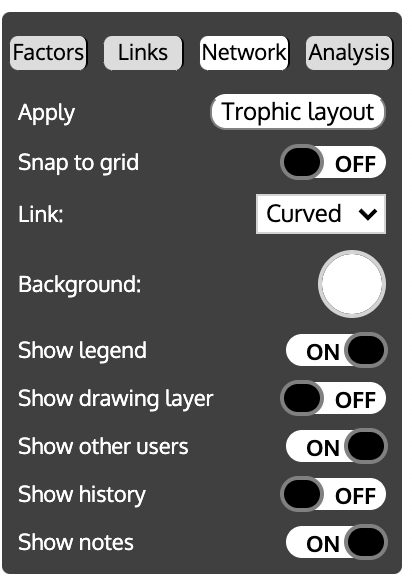
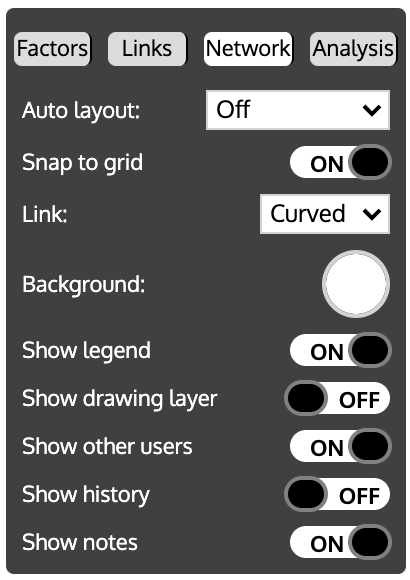
Auto layout: set spring length to average edge length and fixed undo

Changed region(s): [[0.0, 0.0, 0.9951, 0.9931]]

diff --git a/html/help.html b/html/help.html
@@ -111,13 +111,13 @@
 <li>and so on.</li>
 </ul>
 <h3 id="systems">Systems</h3>
-<p>The software is aimed at people who are interested in understanding whole systems. <a href="https://en.wikipedia.org/wiki/System" target="_blank">Wikipedia</a> defines a system as a group of interacting or interrelated entities that form a unified whole.</p>
+<p>The software is aimed at people who are interested in understanding whole systems. <a href="https://en.wikipedia.org/wiki/System" target="_blank" rel="noreferrer">Wikipedia</a> defines a system as a group of interacting or interrelated entities that form a unified whole.</p>
 <h3 id="participatory-system-mapping">Participatory system mapping</h3>
 <p>The app is designed to enable groups of people, each using their own computer (or tablet) to collaborate in the drawing of a map. They may be sitting around a table, discussing the map as it is created face to face, or working remotely, using video conferencing or the chat feature that is built into the app. Everyone can participate because every edit (creating nodes and links, arranging them and so on) is broadcast to all the other participants as the changes are made (just as Google Docs does for text, for example).</p>
 <p>When you start the app in your browser, a ‘room’ is created for you in which to draw your network. You can add other users to this room to share the work. Only those with access to the room can see what is being created.</p>
 <h2 id="examples">Examples</h2>
 <p>Here are a few examples of what you can do with the app:</p>
-<p>The first is a theory of change adapted from an <a href="https://www.thinknpc.org/resource-hub/ten-steps/" target="_blank">NPC report</a>.</p>
+<p>The first is a theory of change adapted from an <a href="https://www.thinknpc.org/resource-hub/ten-steps/" target="_blank" rel="noreferrer">NPC report</a>.</p>
 <figure>
 <img src="/doc/images/NPCexample.png" alt="NCP Example" /><figcaption aria-hidden="true">NCP Example</figcaption>
 </figure>
@@ -131,9 +131,9 @@
 </figure>
 <h2 id="installation">Installation</h2>
 <p>No installation on your computer is needed. The software is a web app, which means that it can be accessed using a web browser by pasting this link into the address bar:</p>
-<p><a href="https://prsm.uk/prsm.html" target="_blank">https://prsm.uk/prsm.html</a></p>
+<p><a href="https://prsm.uk/prsm.html" target="_blank" rel="noreferrer">https://prsm.uk/prsm.html</a></p>
 <p>You need a modern web browser such as Chrome, Firefox, Microsoft Edge or Safari. It will not work with Internet Explorer.</p>
-<p>The software is free and available under an <a href="https://choosealicense.com/licenses/mit/" target="_blank">MIT</a> license.</p>
+<p>The software is free and available under an <a href="https://choosealicense.com/licenses/mit/" target="_blank" rel="noreferrer">MIT</a> license.</p>
 <h2 id="basic-use">Basic use</h2>
 <p>When the app is started for the first time in your browser, there is an option to type in your name and then to follow a brief tour that shows you the main items on the web page.</p>
 <figure>
@@ -150,7 +150,7 @@
 <ul>
 <li><strong>Undo</strong>. Reverses the last action (e.g. if you have just created a new factor, it will be removed). See also using rollback from the History window, described in the section about the <a href="#network-tab">Network Tab</a>.</li>
 <li><strong>Redo</strong>. Redo the last action (e.g. if you have just undone the creation of a factor, this will return the factor to the network).</li>
-<li><strong>Bin</strong>. First, select a factor or a link by clicking on it. Note that the selected factor or link gains a shadow and is listed in the status bar at the bottom of the window. Then click on the Bin button - the factor or link is deleted. The Undo button will restore it if you deleted it by mistake.</li>
+<li><strong>Bin</strong>. First, select a factor or a link by clicking on it. Note that the selected factor or link gains a shadow and is listed in the status bar at the bottom of the window. Then click on the Bin button (or press the backspace or delete keys) - the factor or link is deleted. The Undo button will restore it if you deleted it by mistake.</li>
 <li><strong>Share</strong>. Shows a dialog box with a web link that you can copy and send to someone else. If they then access that link, they will see your network and can edit and add to it. See <a href="#sharing">Sharing</a> below.</li>
 <li><strong>Open file</strong>. Read in a file containing a network from your computer drive. See <a href="#file-formats">below</a> for supported file formats. The content of the file replaces the network in the browser.</li>
 <li><strong>Save file</strong>. Save the network in a file on your computer. The file is saved in the app’s own format, or if you click on the small triangle next to the button, you can choose to save an image of the map as a high resolution image (a .PNG file), or the map data in GML (Graph Markup Language) or CSV (Comma Separated Values) formats.</li>
@@ -199,7 +199,7 @@
 <h3 id="copy-and-paste">Copy and paste</h3>
 <p>You can copy selected factors to the clipboard and then paste them into either the same map (to duplicate them) or into another map in another browser window or tab.</p>
 <p>To copy, first select the factors that you want copied (a long press on the factors). Then hold down the Command ⌘ or CTRL ⌃key and type C. If you copy more than one factor, all the links that go between the selected factors get copied too.</p>
-<p>If you want to copy these factors and links into a new map, open a new tab in your browser, go to <a href="https://prsm.uk/prsm.html" target="_blank">https://prsm.uk/prsm.html</a>, click on the map and type ⌘V or ⌃V. Or to duplicate the factors in the same map, just type ⌘V or ⌃V.</p>
+<p>If you want to copy these factors and links into a new map, open a new tab in your browser, go to <a href="https://prsm.uk/prsm.html" target="_blank" rel="noreferrer">https://prsm.uk/prsm.html</a>, click on the map and type ⌘V or ⌃V. Or to duplicate the factors in the same map, just type ⌘V or ⌃V.</p>
 <h3 id="formatting-factors-and-links">Formatting factors and links</h3>
 <p>Double clicking on a factor or a link will bring up a small dialog that enables you to change the design of the factor or link - its colour, shape or the label.</p>
 <!-- ![Editing a node](/doc/images/Editingnode.png) -->
@@ -216,7 +216,7 @@
 <img src="/doc/images/ChatWindowButton.gif" alt="Chat Window Button" /><figcaption aria-hidden="true">Chat Window Button</figcaption>
 </figure>
 <h3 id="file-formats">File formats</h3>
-<p>The app can read files in its native format (files with the suffix ‘.prsm’), or in <a href="http://graphml.graphdrawing.org/" target="_blank">GRAPHML</a> (.graphml), <a href="https://en.wikipedia.org/wiki/Graph_Modelling_Language" target="_blank">GML</a> (.gml) or <a href="https://en.wikipedia.org/wiki/Comma-separated_values" target="_blank">Comma Separated Values (CSV)</a> (.csv) formats. A CSV file must contain at least two columns of values. Each row represents a link. In the first column is the label of the factor from which the link points, and in the second column is the label of the factor the link is pointing to. This very simple format is designed to allow straightforward imports from other software. Optionally, the third and fourth columns may contain an integer between 1 and 9 - if they do, the factor is styled with that style (styles are numbered from top left to bottom right as shown on the <a href="#factors-tab">Factors tab</a>). The fifth column may contain the style number for the link.</p>
+<p>The app can read files in its native format (files with the suffix ‘.prsm’), or in <a href="http://graphml.graphdrawing.org/" target="_blank" rel="noreferrer">GRAPHML</a> (.graphml), <a href="https://en.wikipedia.org/wiki/Graph_Modelling_Language" target="_blank" rel="noreferrer">GML</a> (.gml) or <a href="https://en.wikipedia.org/wiki/Comma-separated_values" target="_blank" rel="noreferrer">Comma Separated Values (CSV)</a> (.csv) formats. A CSV file must contain at least two columns of values. Each row represents a link. In the first column is the label of the factor from which the link points, and in the second column is the label of the factor the link is pointing to. This very simple format is designed to allow straightforward imports from other software. Optionally, the third and fourth columns may contain an integer between 1 and 9 - if they do, the factor is styled with that style (styles are numbered from top left to bottom right as shown on the <a href="#factors-tab">Factors tab</a>). The fifth column may contain the style number for the link.</p>
 <p>The app can create output files in the app’s own native format, as a GML file or as a CSV file. You can also save an image of the map as a Portable Network Graphics (.png) file. The image shows the same view of the map as you see on the screen (so, for example, it will not show factors that have been moved out of the app window).</p>
 <h3 id="privacy-and-security">Privacy and security</h3>
 <p>The only way to join the room and see the network is by using the randomly generated room name, and the chances of finding that name by trial and error is very, very small. The network data are stored on a central server in encoded form. The server is located in Europe.</p>
@@ -243,13 +243,20 @@
 <!-- ![LinksPanel](/doc/images/LinksPanel.png) -->
 <p><img src="/doc/images/LinksPanel.png" width="250"></p>
 <h3 id="network-tab">Network tab</h3>
-<p>The Network tab enables you to change many aspects of the network visualisation andwhat is shown in the window.</p>
-<p>It is sometimes useful to get PSRM to layout Factors using an automatic procedure and then adjust their positions manually to achieve the desired placement. PRSM has the <em>trophic</em> algorithm built in. The trophic layout helps to reveal <a href="https://royalsocietypublishing.org/doi/10.1098/rsos.201138" target="_blank">the causal structure of the map</a>. With the trophic layout, the factors are arranged along the horizontal axis according to their positions (their trophic levels) in the overall causal flow within the system, making it easier to identify upstream and downstream factors; the linked chains of influence that connect them; and where policies act on the system within this overall causal structure (which may be upstream or downstream).</p>
+<p>The Network tab enables you to change many aspects of the network visualisation and what is shown in the window.</p>
+<p>It is sometimes useful to get PSRM to layout Factors using an automatic procedure and then adjust their positions manually to achieve the desired placement. PRSM provides several layout algorithms:</p>
+<ul>
+<li>The <em>trophic</em> algorithm helps to reveal <a href="https://royalsocietypublishing.org/doi/10.1098/rsos.201138" target="_blank" rel="noreferrer">the causal structure of the map</a>. With the trophic layout, the factors are arranged along the horizontal axis according to their positions (their trophic levels) in the overall causal flow within the system, making it easier to identify upstream and downstream factors; the linked chains of influence that connect them; and where factors act on the system within this overall causal structure (which may be upstream or downstream). It will re-arrange the factors and links to create a layout such that all the links point from left to right and are arranged according to <a href="https://en.wikipedia.org/wiki/Trophic_level" target="_blank" rel="noreferrer">trophic level</a>.</li>
+<li><em>Barnes Hut</em> This is a ‘gravity’ algorithm. Each Factor is modelled as though it has a mass that repulses all other Factors with an inverse square, while the links are modelled as springs that pull the Factors together. The algorithm is iterative, i.e. it tries repeatedly to find the best arrangement of factors that balance the repulsive forces between the Factors and the attractive forces from the springs.</li>
+<li><em>Force Atlas 2</em> This is a variation of the Barnes Hut algorithm in which the repulsion between the Factors is linear rather than qudratric.</li>
+<li><em>Repulsion</em> Another variation of Barnes Hut.</li>
+</ul>
+<p>There is no best layout algorithm that works for all networks; you need to see which one looks best for your map. If you don’t like the effect of an algorithm, you can choose another one, or use the Undo button on the top bar to revert the map to its original layout.</p>
 <p>On the Network tab, there are controls for:</p>
 <!-- ![NetworkPanel](/doc/images/NetworkPanel.png) -->
 <p><img src="/doc/images/NetworkPanel.png" width="250"></p>
 <ul>
-<li><strong>Trophic Layout</strong> Clicking the Trophic Layout button will re-arrange the factors and links to create a layout such that all the links point from left to right and are arranged accoriding to <a href="https://en.wikipedia.org/wiki/Trophic_level" target="_blank">trophic level</a>. You can then adjust the map manually to a neat and pleasing layout. If you don’t like the result, the Undo button on the top bar will revert the map to its original layout.</li>
+<li><strong>Auto Layout</strong> Choose which layout algorithm to apply. The algorithm will then adjust the positions of the Factors and links and, once complete, the selection will revert to ‘Off’.</li>
 <li><strong>Snap to grid</strong> When ON, factors shift to be at the intersection of invisible grid lines. This makes it much easier to line up factors neatly.</li>
 <li><strong>Link</strong> Links can either be drawn using a curved line or a straight line. This control swaps between the two.</li>
 <li><strong>Background</strong> This changes the colour of the background of the network pane. Click on the colour well to display possible colours. The default is white, but a black background can also be effective.</li>
@@ -272,7 +279,7 @@
 <p>Here is an example. The first is the original network. <img src="/doc/images/ShowAll.png" width="250"> The second is the same network with Show all paths between Factors 1 and 7. <img src="/doc/images/ShowAllPaths.png" width="250"> The third is the same network with Show the shortest path between Factors 1 and 7. <img src="/doc/images/ShowShortestPath.png" width="250"></p>
 <p>The above three options can be combined. For example, the shortest path between two Factors option may display two paths: one with a couple of links and another feedback path going in the reverse direction that winds around the map and includes many links. Because it consists of many links, the latter path may not be of much interest. Choosing both Shortest path and Show Factors only 2 links away will display just the direct path.</p>
 <ul>
-<li><p><strong>Size Factors to</strong> This is used to change the size of the Factors to be proportional to one of a set of metrics: the number of inputs (the ‘in-degree’), the number of outputs (the ‘out-degree’), the leverage (ratio of inputs to outputs), or the <a href="https://en.wikipedia.org/wiki/Betweenness_centrality" target="_blank">betweenness centrality</a>. Note that the Factors are always drawn large enough to accommodate their labels, and so the size may not be exactly proportional to the metric. The values of these metrics for a Factor are shown in its Notes panel.</p></li>
+<li><p><strong>Size Factors to</strong> This is used to change the size of the Factors to be proportional to one of a set of metrics: the number of inputs (the ‘in-degree’), the number of outputs (the ‘out-degree’), the leverage (ratio of inputs to outputs), or the <a href="https://en.wikipedia.org/wiki/Betweenness_centrality" target="_blank" rel="noreferrer">betweenness centrality</a>. Note that the Factors are always drawn large enough to accommodate their labels, and so the size may not be exactly proportional to the metric. The values of these metrics for a Factor are shown in its Notes panel.</p></li>
 <li><p><strong>Cluster</strong> With large maps, it is sometimes useful to aggregate Factors into groups, thus displaying the map at a higher level of abstraction. For example, all the Factors relating to the effect of climate change might be replaced on the map by one ‘Climate Change Cluster’ Factor, and similarly, all the Factors concerned with transport replaced by one Transport Factor. Links that used to go to Factors outside the cluster are replaced by links that go to the new Cluster Factor (and likewise for links that go from the clustered Factors to Factors outside the cluster).</p>
 <p>For example, here is a simple map before clustering:</p>
 <p><img src="/doc/images/BeforeClustering.png" width="600"></p>
@@ -302,7 +309,7 @@
 <li><strong>Undo</strong> This tool will undo the effect of the last drawing (e.g. if you have just placed an image on the background, it will remove the image, or if you have drawn a line with the pencil, it will undo that line). Each click of the Undo button removes a previous drawing.</li>
 </ul>
 <h2 id="analysis">Analysis</h2>
-<p>Once you have a map, you may want to examine it for themes and patterns. This is easiest if you examine portions of the map, or ‘sub-maps’, one at a time. As Barbrook-Johnson and Penn explain (<a href="https://doi.org/10.1177/1356389020976153" target="_blank">Barbrook-Johnson, P., &amp; Penn, A. (2021). Participatory systems mapping for complex energy policy evaluation. Evaluation, 27(1), 57–79.</a>), network analysis can be combined with subjective information to answer a range of questions, as indicated in the table below.</p>
+<p>Once you have a map, you may want to examine it for themes and patterns. This is easiest if you examine portions of the map, or ‘sub-maps’, one at a time. As Barbrook-Johnson and Penn explain (<a href="https://doi.org/10.1177/1356389020976153" target="_blank" rel="noreferrer">Barbrook-Johnson, P., &amp; Penn, A. (2021). Participatory systems mapping for complex energy policy evaluation. Evaluation, 27(1), 57–79.</a>), network analysis can be combined with subjective information to answer a range of questions, as indicated in the table below.</p>
 <table class="analysis">
 <thead>
 <tr class="header">
@@ -463,22 +470,22 @@
 </ol>
 <h2 id="source-code">Source Code</h2>
 <p><em>(The following is intended for developers who want to extend PRSM)</em></p>
-<p>The program code is available on <a href="https://github.com/micrology/prsm" target="_blank">GitHub</a>.</p>
+<p>The program code is available on <a href="https://github.com/micrology/prsm" target="_blank" rel="noreferrer">GitHub</a>.</p>
 <p>The javascript (ES6) code in sub-directory <code>js</code> is divided into several modules: those that handle the main network pane (<code>prsm.js</code>), the background painting functions (<code>paint.js</code>), editing the styles (<code>styles.js</code>) (the default styles are in <code>samples.js</code>), the initial tour (<code>tutorial.js</code>), does tophic layout (<code>trophic.js</code>), does clustering (<code>cluster.js</code>), calulates the betweenness centrality (<code>betweenness.js</code>) and provides shared utility functions (<code>utils.js</code>). The HTML file that displays in the browser is in the <code>html</code> directory.</p>
-<p>PRSM uses two important packages: <a href="https://github.com/yjs/yjs" target="_blank"><code>yjs</code></a> and <a href="https://visjs.org/" target="_blank"><code>vis-network</code></a>. The former handles the sharing between participants’ browsers and the latter draws the network. A few other packages are used for dealing with touch input (<a href="https://hammerjs.github.io/" target="_blank"><code>Hammer</code></a>), drawing emojis, and parsing XML file input.</p>
-<p>These components are assembled using <a href="https://parceljs.org/" target="_blank"><code>parcel</code></a> and the bundled file is placed in the <code>dist</code> directory. So that users have an easy URL to access (i.e. not needing to include <code>dist</code> in the link), there is an <code>.htaccess</code> file that rewrites URLs from what the user puts into their browser to the correct location.</p>
-<p>To install the code, use <code>git</code> to clone the <a href="https://github.com/micrology/prsm" target="_blank">repo</a> to your local disk and change to the cloned directory. Then install the required packages with</p>
+<p>PRSM uses two important packages: <a href="https://github.com/yjs/yjs" target="_blank" rel="noreferrer"><code>yjs</code></a> and <a href="https://visjs.org/" target="_blank" rel="noreferrer"><code>vis-network</code></a>. The former handles the sharing between participants’ browsers and the latter draws the network. A few other packages are used for dealing with touch input (<a href="https://hammerjs.github.io/" target="_blank" rel="noreferrer"><code>Hammer</code></a>), drawing emojis, and parsing XML file input.</p>
+<p>These components are assembled using <a href="https://parceljs.org/" target="_blank" rel="noreferrer"><code>parcel</code></a> and the bundled file is placed in the <code>dist</code> directory. So that users have an easy URL to access (i.e. not needing to include <code>dist</code> in the link), there is an <code>.htaccess</code> file that rewrites URLs from what the user puts into their browser to the correct location.</p>
+<p>To install the code, use <code>git</code> to clone the <a href="https://github.com/micrology/prsm" target="_blank" rel="noreferrer">repo</a> to your local disk and change to the cloned directory. Then install the required packages with</p>
 <div class="sourceCode" id="cb1"><pre class="sourceCode bash"><code class="sourceCode bash"><span id="cb1-1"><a href="#cb1-1" aria-hidden="true" tabindex="-1"></a><span class="ex">npm</span> install</span></code></pre></div>
 <p>and build the distribution with</p>
 <div class="sourceCode" id="cb2"><pre class="sourceCode bash"><code class="sourceCode bash"><span id="cb2-1"><a href="#cb2-1" aria-hidden="true" tabindex="-1"></a><span class="ex">npm</span> run build</span></code></pre></div>
 <p>Documentation can be found in the <code>doc</code> directory.</p>
 <p>See <code>package.json</code> for other npm commands.</p>
 <h2 id="acknowledgements">Acknowledgements</h2>
-<p>With thanks to all who helped inspire, suggest features for, comment on, and test PRSM, including the members of <a href="https://www.cecan.ac.uk/" target="_blank">CECAN</a>, <a href="https://cress.soc.surrey.ac.uk/" target="_blank">CRESS</a>, <a href="https://www.risksol.co.uk/" target="_blank">Risk Solutions</a>, and Robin Gilbert.</p>
+<p>With thanks to all who helped inspire, suggest features for, comment on, and test PRSM, including the members of <a href="https://www.cecan.ac.uk/" target="_blank" rel="noreferrer">CECAN</a>, <a href="https://cress.soc.surrey.ac.uk/" target="_blank" rel="noreferrer">CRESS</a>, <a href="https://www.risksol.co.uk/" target="_blank" rel="noreferrer">Risk Solutions</a>, and Robin Gilbert.</p>
 <h2 id="bug-reports-and-feature-requests">Bug reports and feature requests</h2>
 <p>Please report problems, suggestions and praise to <a href="mailto:nigel@prsm.uk">nigel@prsm.uk</a></p>
 </div>
-<script src="https://unpkg.com/scrollnav@3.0.2/dist/scrollnav.min.umd.js"></script>
+<script src="/node_modules/scrollnav/dist/scrollnav.min.umd.js"></script>
 <script>
 window.addEventListener('load', () => {
     const content = document.querySelector('#contents');

diff --git a/js/prsm.js b/js/prsm.js
@@ -184,7 +184,7 @@ function addEventListeners() {
 	listen('analysisButton', 'click', () => {
 		openTab('analysisTab')
 	})
-	listen('layoutSelect', 'change', selectAutoLayout)
+	listen('layoutSelect', 'change', autoLayout)
 	listen('snaptogridswitch', 'click', snapToGridSwitch)
 	listen('curveSelect', 'change', selectCurve)
 	listen('drawing', 'click', toggleDrawingLayer)
@@ -422,31 +422,30 @@ function startY(newRoom) {
 	 */
 	function showChange(event, ymap) {
 		event.changes.keys.forEach((change, key) => {
-			if (change.action === 'add') {
-				console.log(
-					`Property "${key}" was added. 
+				if (change.action === 'add') {
+					console.log(
+						`Property "${key}" was added. 
 				Initial value: `,
-					ymap.get(key)
-				)
-			} else if (change.action === 'update') {
-				console.log(
-					`Property "${key}" was updated. 
+						ymap.get(key)
+					)
+				} else if (change.action === 'update') {
+					console.log(
+						`Property "${key}" was updated. 
 					New value: "`,
-					ymap.get(key),
-					`. 
-					Previous value: `,
-					change.oldValue,
-					`. 
-					Difference: `,
-					diff(change.oldValue, ymap.get(key))
-				)
-			} else if (change.action === 'delete') {
-				console.log(
-					`Property "${key}" was deleted. 
+						ymap.get(key),
+						`"
+					Previous value: "`,
+						change.oldValue,
+						`" 
+					Difference: "`,
+						typeof change.oldValue === 'object' && typeof ymap.get(key) === 'object' ? diff(change.oldValue, ymap.get(key)) : (change.oldValue + ' ' + ymap.get(key)), `"`)	
+				} else if (change.action === 'delete') {
+					console.log(
+						`Property "${key}" was deleted. 
 				Previous value: `,
-					change.oldValue
-				)
-			}
+						change.oldValue
+					)
+				}
 		})
 	}
 	ySamplesMap.observe((event) => {
@@ -497,9 +496,6 @@ function startY(newRoom) {
 					case 'mapTitle':
 					case 'maptitle':
 						setMapTitle(obj)
-						break
-					case 'autoLayout':
-						autoLayout(obj)
 						break
 					case 'snapToGrid':
 						doSnapToGrid(obj)
@@ -1267,19 +1263,6 @@ function fit(duration = 200) {
 	let newScale = network.getScale()
 	elem('zoom').value = newScale
 	network.storePositions()
-}
-
-/**
- * broadcast current node positions to all clients
- */
-function broadcast() {
-	/* there are situations where vis does not update node positions
-(and therefore does not call nodes.on) such as auto layout, 
-and therefore other clients don't get to see the changes.
-This function forces a broadcast of all nodes.  We only deal with
-nodes because the edges follow */
-	network.storePositions()
-	data.nodes.forEach((n) => yNodesMap.set(n.id, n))
 }
 
 /**
@@ -3396,29 +3379,52 @@ function positionNotes() {
 /**
  * Choose and apply a layout algorithm
  */
-
-function selectAutoLayout(e) {
+function autoLayout(e) {
 	let option = e.target.value
-	autoLayout(option)
-	yNetMap.set('autoLayout', option)
-}
-function autoLayout(option) {
-	elem('layoutSelect').value = option
+	let selectElement = elem('layoutSelect')
+	selectElement.value = option
 	network.storePositions() // record current positions so it can be undone
-	if (option == 'trophic') {
-		try {
-			data.nodes.update(trophic(data))
-		} catch (e) {
-			statusMsg(`Trophic layout: ${e.message}`, 'error')
+	doc.transact(() => {
+		if (option == 'trophic') {
+			try {
+				data.nodes.update(trophic(data))
+				elem('layoutSelect').value = 'off'
+			} catch (e) {
+				statusMsg(`Trophic layout: ${e.message}`, 'error')
+			}
+		} else if (option == 'off') {
+			network.setOptions({ physics: { enabled: false } })
+		} else {
+			let options = { physics: { solver: option, stabilization: true } }
+			options.physics[option] = {}
+			options.physics[option].springLength = avEdgeLength()
+			network.setOptions(options)
 		}
+	})
+	// cancel the iterative algorithms as soon as they have stabilized
+	network.on('stabilized', () => {
+		network.setOptions({ physics: { enabled: false } })
+		network.storePositions()
+		elem('layoutSelect').value = 'off'
+		data.nodes.update(data.nodes.get())
 	}
-	else if (option == 'off') {
-		network.setOptions({physics: {enabled: false}})
+	)
+	logHistory(`applied ${selectElement.options[selectElement.selectedIndex].innerHTML} layout`)
+
+	/**
+	 * find the average length of all edges, as a guide to the layout spring length
+	 * so that map is roughly as spaced out as before layout
+	 * @returns average length (in canvas units)
+	 */
+	function avEdgeLength() {
+		let edgeSum = 0
+		data.edges.forEach((e) => {
+			let from = data.nodes.get(e.from)
+			let to = data.nodes.get(e.to)
+			edgeSum += Math.sqrt((from.x - to.x) ** 2 + (from.y - to.y) ** 2)
+		})
+		return edgeSum / data.edges.length
 	}
-	else {
-		network.setOptions({physics: {solver: option, stabilization: true}})
-		}
-	broadcast()
 }
 
 function snapToGridSwitch(e) {

diff --git a/doc/help.md b/doc/help.md
@@ -223,16 +223,23 @@ The Links tab is very similar to the Factors tab, except that it relates to the 
 
 ### Network tab
 
-The Network tab enables you to change many aspects of the network visualisation andwhat is shown in the window.  
+The Network tab enables you to change many aspects of the network visualisation and what is shown in the window.  
 
-It is sometimes useful to get PSRM to layout Factors using an automatic procedure and then adjust their positions manually to achieve the desired placement.  PRSM has the *trophic* algorithm built in. The trophic layout  helps to reveal [the causal structure of the map](https://royalsocietypublishing.org/doi/10.1098/rsos.201138){target="_blank" rel="noreferrer"}. With the trophic layout, the factors are arranged along the horizontal axis according to their positions (their trophic levels) in the overall causal flow within the system, making it easier to identify upstream and downstream factors; the linked chains of influence that connect them; and where policies act on the system within this overall causal structure (which may be upstream or downstream).
+It is sometimes useful to get PSRM to layout Factors using an automatic procedure and then adjust their positions manually to achieve the desired placement.  PRSM provides several layout algorithms:
+
+* The *trophic* algorithm helps to reveal [the causal structure of the map](https://royalsocietypublishing.org/doi/10.1098/rsos.201138){target="_blank" rel="noreferrer"}. With the trophic layout, the factors are arranged along the horizontal axis according to their positions (their trophic levels) in the overall causal flow within the system, making it easier to identify upstream and downstream factors; the linked chains of influence that connect them; and where factors act on the system within this overall causal structure (which may be upstream or downstream). It will re-arrange the factors and links to create a layout such that all the links point from left to right and are arranged according to [trophic level](https://en.wikipedia.org/wiki/Trophic_level){target="_blank" rel="noreferrer"}.
+* *Barnes Hut* This is a 'gravity' algorithm.  Each Factor is modelled as though it has a mass that repulses all other Factors with an inverse square, while the links are modelled as springs that pull the Factors together. The algorithm is iterative, i.e. it tries repeatedly to find the best arrangement of factors that balance the repulsive forces between the Factors and the attractive forces from the springs.
+* *Force Atlas 2* This is a variation of the Barnes Hut algorithm in which the repulsion between the Factors is linear rather than qudratric.
+* *Repulsion*  Another variation of Barnes Hut.
+
+There is no best layout algorithm that works for all networks; you need to see which one looks best for your map. If you don't like the effect of an algorithm, you can choose another one, or use the Undo button on the top bar to revert the map to its original layout.
 
 On the Network tab, there are controls for:
 
 <!-- ![NetworkPanel](/doc/images/NetworkPanel.png) -->
 <img src="/doc/images/NetworkPanel.png" width="250">
 
-* **Trophic Layout** Clicking the Trophic Layout button will re-arrange the factors and links to create a layout such that all the links point from left to right and are arranged accoriding to [trophic level](https://en.wikipedia.org/wiki/Trophic_level){target="_blank" rel="noreferrer"}. You can then adjust the map manually to a neat and pleasing layout.  If you don't like the result, the Undo button on the top bar will revert the map to its original layout.
+* **Auto Layout** Choose which layout algorithm to apply.  The algorithm will then adjust the positions of the Factors and links and, once complete, the selection will revert to 'Off'.
 * **Snap to grid**  When ON, factors shift to be at the intersection of invisible grid lines.  This makes it much easier to line up factors neatly.
 * **Link** Links can either be drawn using a curved line or a straight line.  This control swaps between the two.
 * **Background** This changes the colour of the background of the network pane.  Click on the colour well to display possible colours.  The default is white, but a black background can also be effective.
